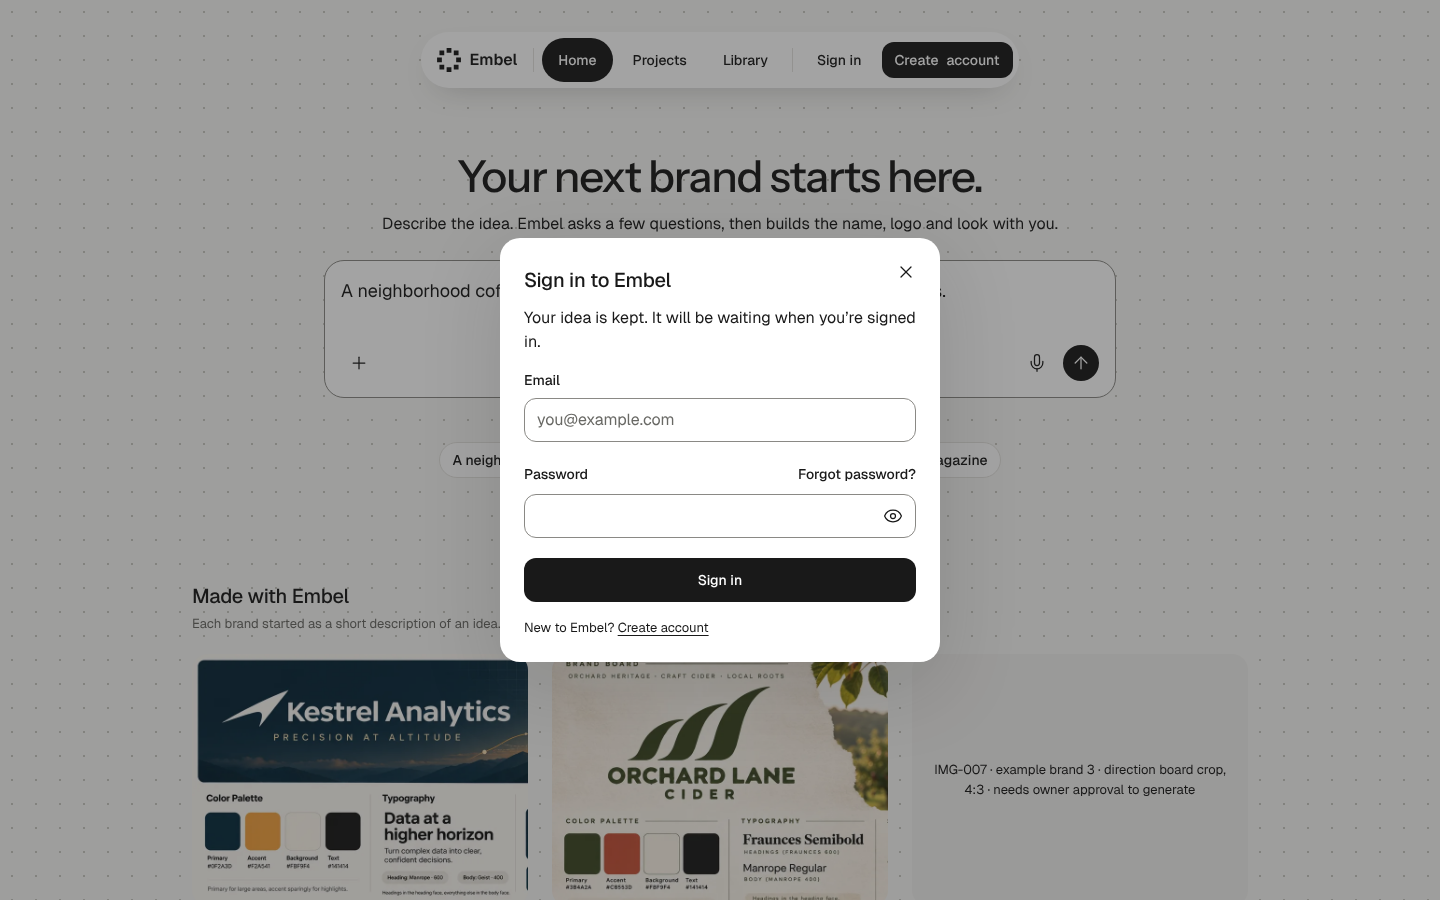
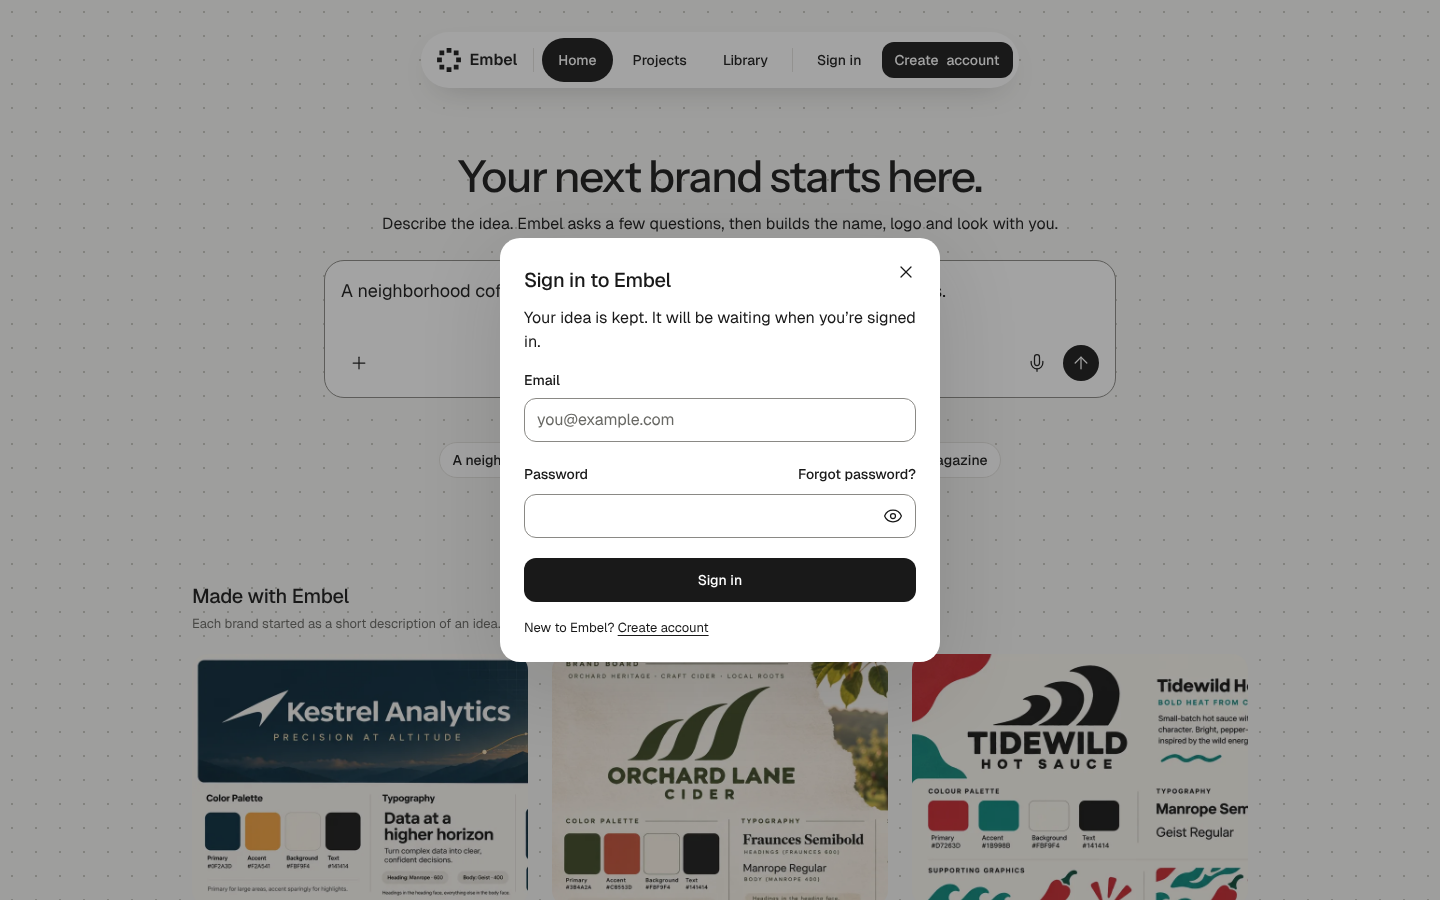
Show Tidewild Hot Sauce as the third Home example
The Home screens now show three real brands made with Embel; the approved
Home screens are re-exported from the canvas.

Claude-Session: https://claude.ai/code/session_01572c2SUBVwKbuaGXLZJQ6s

Changed region(s): [[0.625, 0.7156, 0.875, 0.9333], [0.625, 0.9644, 0.875, 1.0]]

diff --git a/design-assets/handoff.md b/design-assets/handoff.md
@@ -60,7 +60,6 @@ Part B items in `Design_AUDIT.md` section 6 that are not named on any canvas row
 
 - **D-024 deferred** (owner, Nov 14): the direction board can show a different logo from the chosen one. It is a generation-engine issue, outside this redesign; implementation changes nothing about it.
 - **D-036 declined** (owner, Nov 14): no credit ledger. The Usage boards on canvas page 2 show a ledger that will not be built; implementation restyles today's Usage page with the design system and keeps the data it shows now.
-- **IMG-007 / IMG-008:** the owner approved a third showcase brand (Nov 14), made with one ordinary run of the product (6 logo concepts, 3 direction boards). Until it exists, the third Home example is a placeholder; the first two use the showcase brands.
 - **Audience, Positioning, Personality and Slogan** have desktop side-chat screens only; at 768 and 390 they follow the one-column conversation as in the current app.
 - **Name details checks:** only YouTube handles and the EU trademark register are checked live today; domain search across many extensions needs a bulk check from the domain provider, which also supplies the prices.
 
@@ -71,7 +70,7 @@ Export each slot at 1× and 2× of the largest width it appears at. "Side chat" 
 | ID | Slot | 390 | 768 | 1440 | Notes |
 | --- | --- | --- | --- | --- | --- |
 | IMG-003 | Share image (link preview) | — | — | 1200 × 630 file | Board on page 7 |
-| IMG-007 | Signed-out Home examples, 4:3 | 358 × 269 | 227 × 170 | 336 × 252 | Same asset as IMG-008; third is a placeholder |
+| IMG-007 | Signed-out Home examples, 4:3 | 358 × 269 | 227 × 170 | 336 × 252 | Same asset as IMG-008; the three examples are Kestrel Analytics, Orchard Lane Cider and Tidewild Hot Sauce (third showcase brand, approved and made Nov 14; crop in `design-assets/source/IMG-007_tidewild-home_v1.webp`) |
 | IMG-008 | New-account Home empty state, 4:3 | 358 × 269 | — | 336 × 252 | Same asset as IMG-007 |
 | IMG-011 | Project card logo strip (contain) | 324 × 146 | 316 × 142 | 302 × 135 | Plus three concept thumbs, about 100 × 100 |
 | IMG-012 | Library preview, square (contain) | 356 × 356 | 348 × 348 | 334 × 334 | Brand board shown whole in the square |
